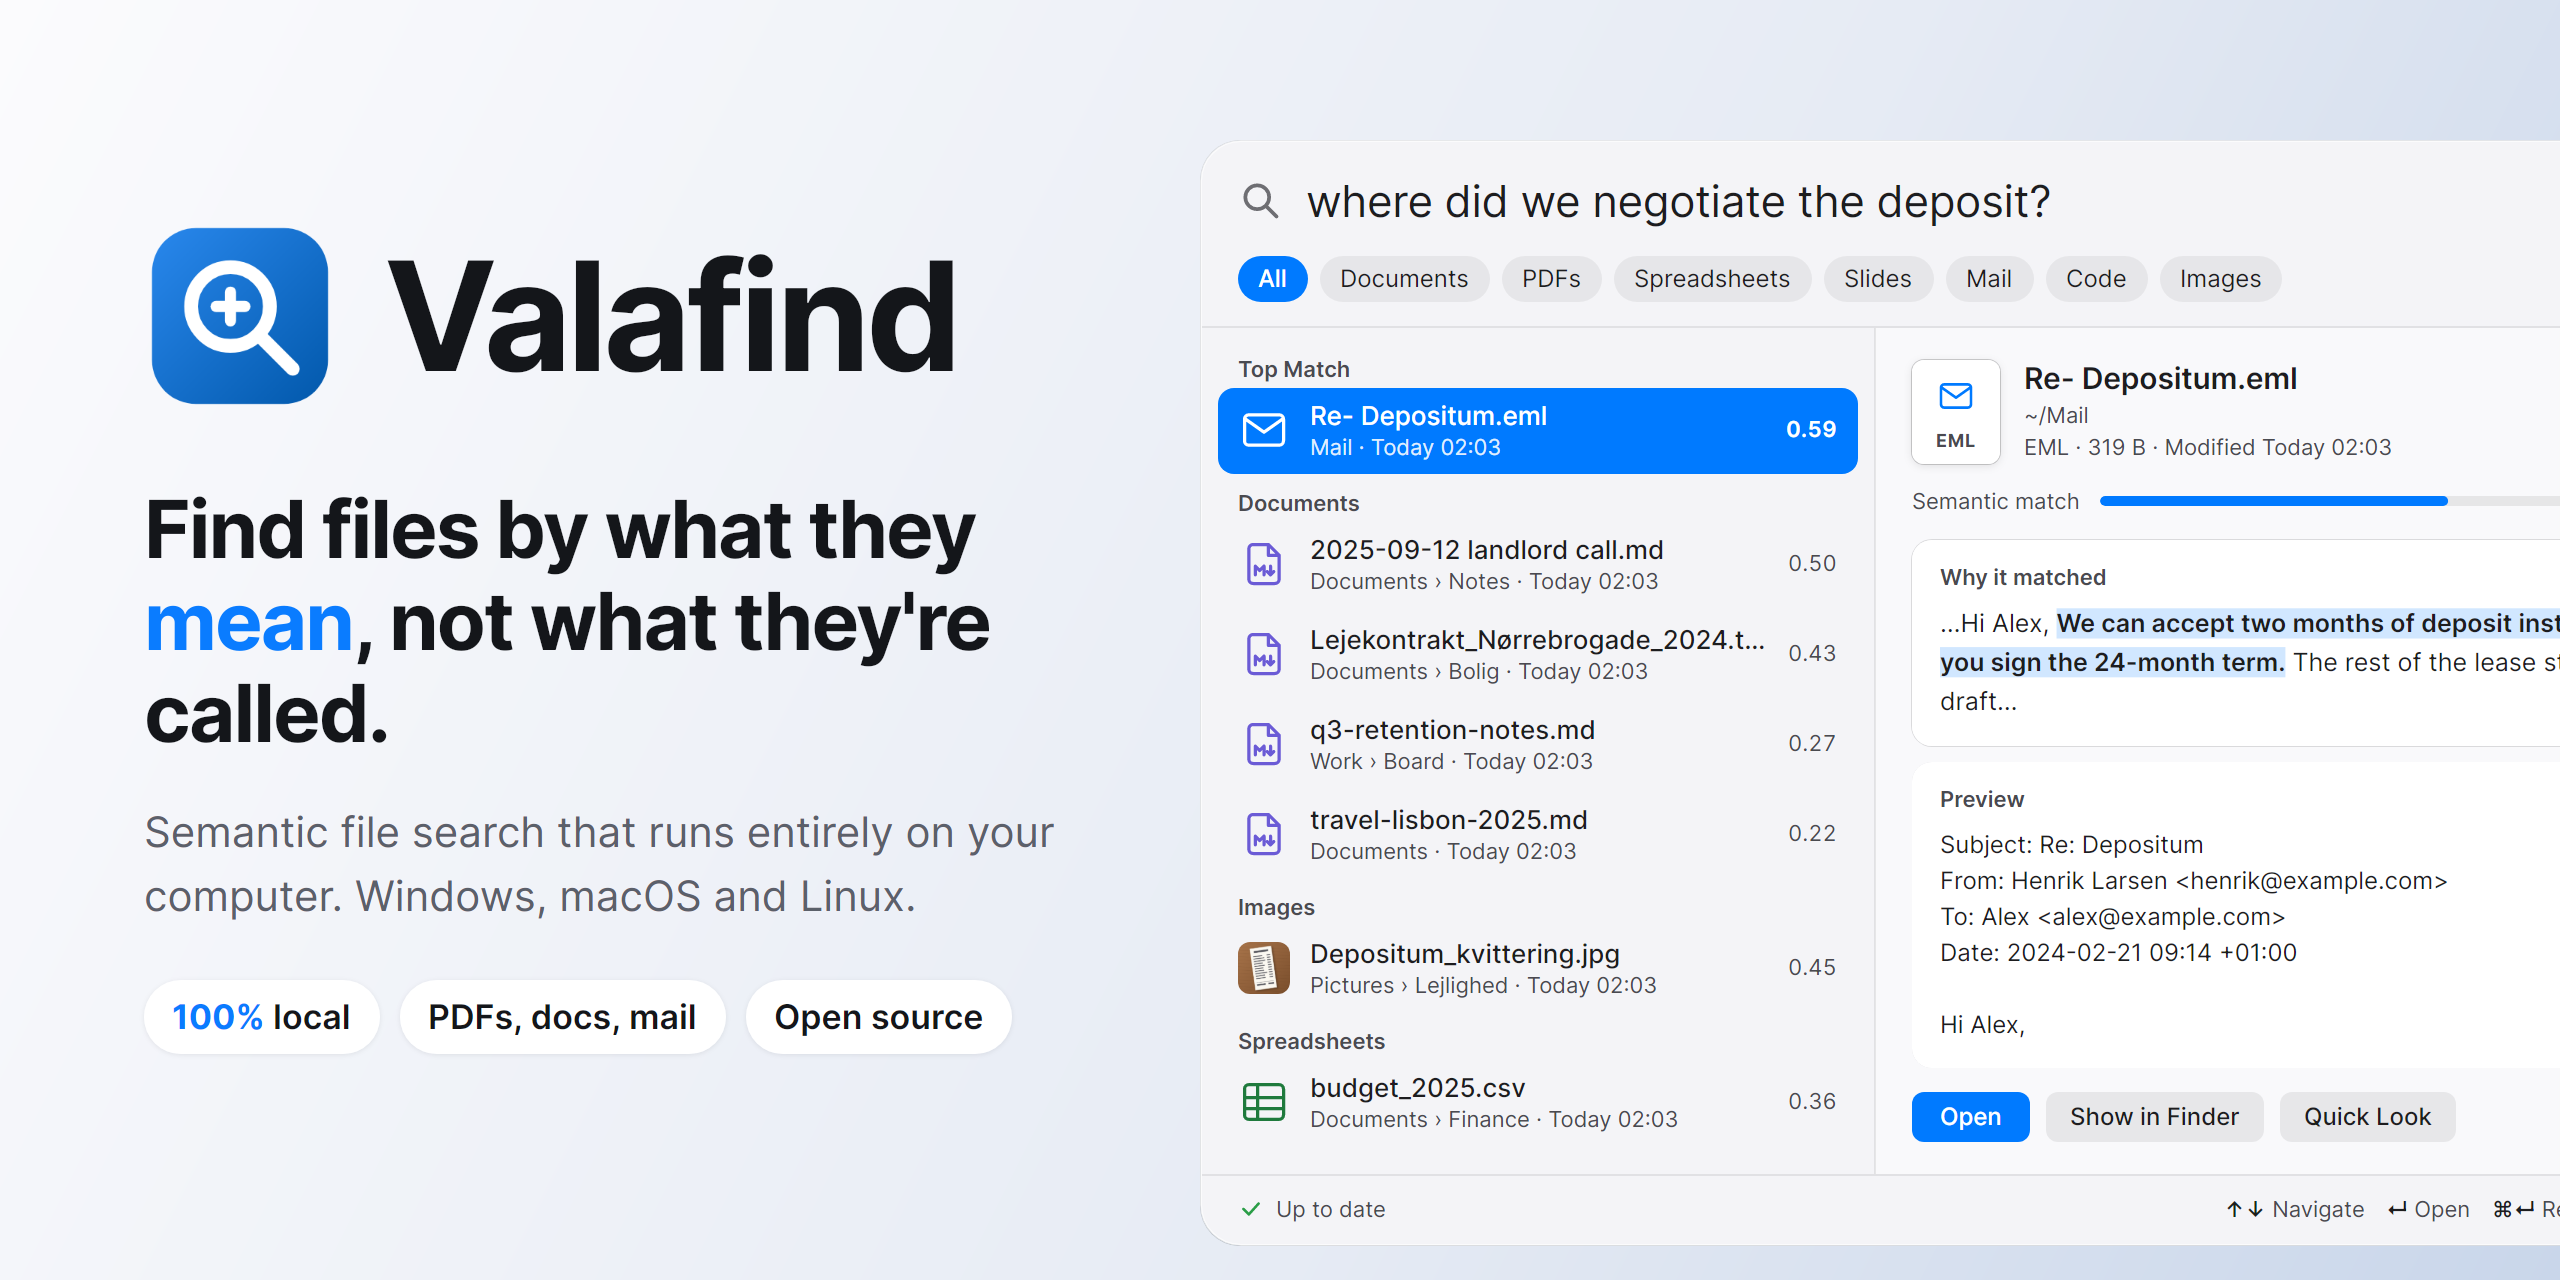
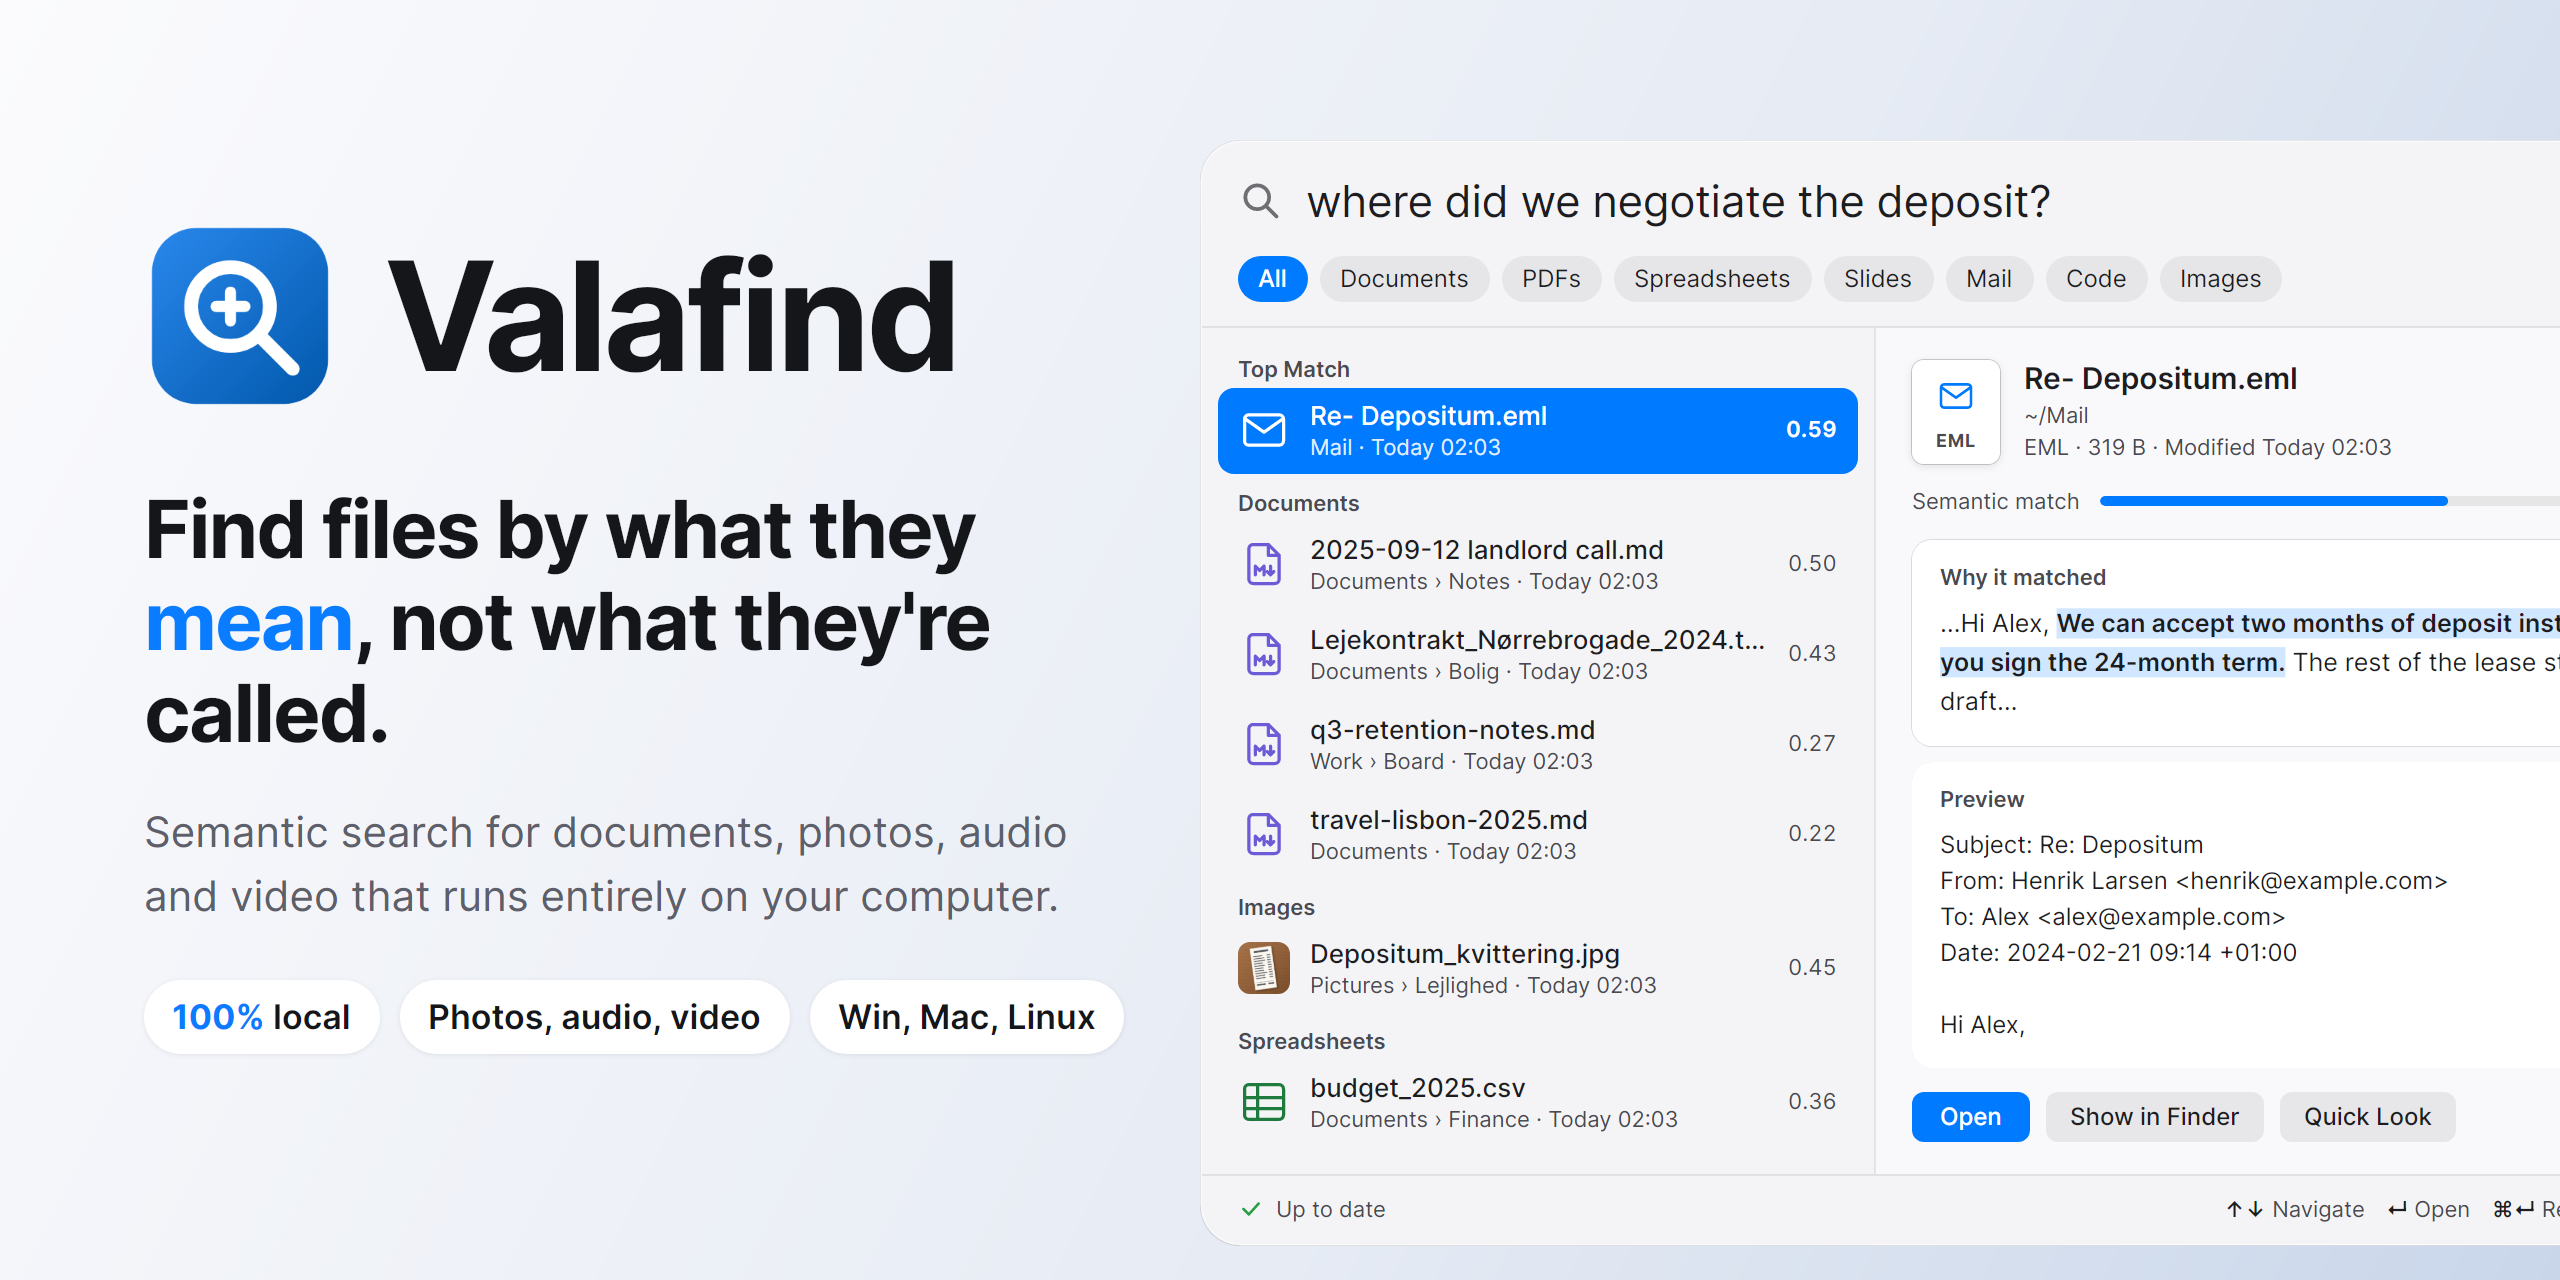
Highlight that photos, audio and video are searchable too
The cover, README intro and website hero now say that pictures, audio and
video work as well as documents, with an example of each.

Claude-Session: https://claude.ai/code/session_01KD7sVkAtVTWbTfvivHJnt1

Changed region(s): [[0.0625, 0.625, 0.4062, 0.7188], [0.1562, 0.7812, 0.4375, 0.8125]]

diff --git a/site/index.html b/site/index.html
@@ -4,9 +4,9 @@
   <meta charset="utf-8">
   <meta name="viewport" content="width=device-width, initial-scale=1">
   <title>Valafind — find files by what they mean</title>
-  <meta name="description" content="Press a shortcut, describe the file in your own words, and Valafind finds it — in any language, entirely on your computer.">
+  <meta name="description" content="Press a shortcut, describe the file in your own words, and Valafind finds it — documents, photos, audio and video, in any language, entirely on your computer.">
   <meta property="og:title" content="Valafind — find files by what they mean">
-  <meta property="og:description" content="Semantic file search for Windows, macOS and Linux. Runs entirely on your computer.">
+  <meta property="og:description" content="Semantic search for documents, photos, audio and video on Windows, macOS and Linux. Runs entirely on your computer.">
   <meta property="og:image" content="screenshots/macos-launcher.png">
   <meta name="color-scheme" content="light dark">
   <link rel="icon" href="favicon.png">
@@ -26,7 +26,9 @@
     <section class="hero">
       <h1>Find files by what they <em>mean</em>.</h1>
       <p class="lede">Press <kbd>Ctrl</kbd> <kbd>Alt</kbd> <kbd>Space</kbd>, describe what you're looking for in your own words,
-        and get the file, even when it's written in another language and named <code>scan_0042.pdf</code>.</p>
+        and get the file, even when it's written in another language and named <code>scan_0042.pdf</code>.
+        Photos, audio and video too: <em>"a red car in the snow"</em> finds the picture, <em>"the meeting about the
+        budget"</em> finds the recording.</p>
       <div class="cta">
         <a class="button primary" id="download" href="https://github.com/ffMathy/valafind/releases/latest">Download Valafind</a>
         <a class="button" href="https://github.com/ffMathy/valafind">Source on GitHub</a>
@@ -57,7 +59,7 @@
 
     <section class="features" id="how">
       <article>
-        <h2>Meaning, not file names</h2>
+        <h2>Documents, photos, audio and video</h2>
         <p>Valafind reads your documents, PDFs, slides, spreadsheets, e-mail and code, looks at your photos, and listens
           to your recordings and videos, and understands them with
           <a href="https://huggingface.co/google/embeddinggemma-2">EmbeddingGemma 2</a>, in 100+ languages. Ask the way you'd ask a colleague.</p>

diff --git a/tests/Valafind.App.Tests/Headless/DocsScreenshotTests.cs b/tests/Valafind.App.Tests/Headless/DocsScreenshotTests.cs
@@ -331,12 +331,12 @@ public sealed class DocsScreenshotTests(HeadlessFixture fixture)
                 {
                     Margin = new Thickness(0, 22, 0, 0), FontFamily = font, FontSize = 21, Foreground = new SolidColorBrush(Color.Parse("#5B606A")),
                     LineHeight = 32, TextWrapping = TextWrapping.Wrap,
-                    Text = "Semantic file search that runs entirely on your computer. Windows, macOS and Linux.",
+                    Text = "Semantic search for documents, photos, audio and video that runs entirely on your computer.",
                 },
                 new StackPanel
                 {
                     Margin = new Thickness(0, 26, 0, 0), Orientation = Orientation.Horizontal, Spacing = 10,
-                    Children = { Badge("100%", " local"), Badge(string.Empty, "PDFs, docs, mail"), Badge(string.Empty, "Open source") },
+                    Children = { Badge("100%", " local"), Badge(string.Empty, "Photos, audio, video"), Badge(string.Empty, "Win, Mac, Linux") },
                 },
             },
         };

diff --git a/README.md b/README.md
@@ -1,9 +1,11 @@
 # Valafind
 
-<p align="center"><img src="docs/screenshots/cover@2x.png" alt="Valafind: find files by what they mean, not what they're called. Semantic file search that runs entirely on your computer, shown next to its launcher answering a question"></p>
+<p align="center"><img src="docs/screenshots/cover@2x.png" alt="Valafind: find files by what they mean, not what they're called. Semantic search for documents, photos, audio and video that runs entirely on your computer, shown next to its launcher answering a question"></p>
 
 **Find files by what they mean.** Press <kbd>Ctrl</kbd>+<kbd>Alt</kbd>+<kbd>Space</kbd>, ask in your own words, and get the
-file, even when it is written in another language and named `scan_0042.pdf`. Everything runs on your computer.
+file, even when it is written in another language and named `scan_0042.pdf`. It is not just documents: **photos, audio
+and video work too**, so *"a red car in the snow"* finds the picture and *"the meeting about the budget"* finds the
+recording. Everything runs on your computer.
 
 <table>
   <tr>
